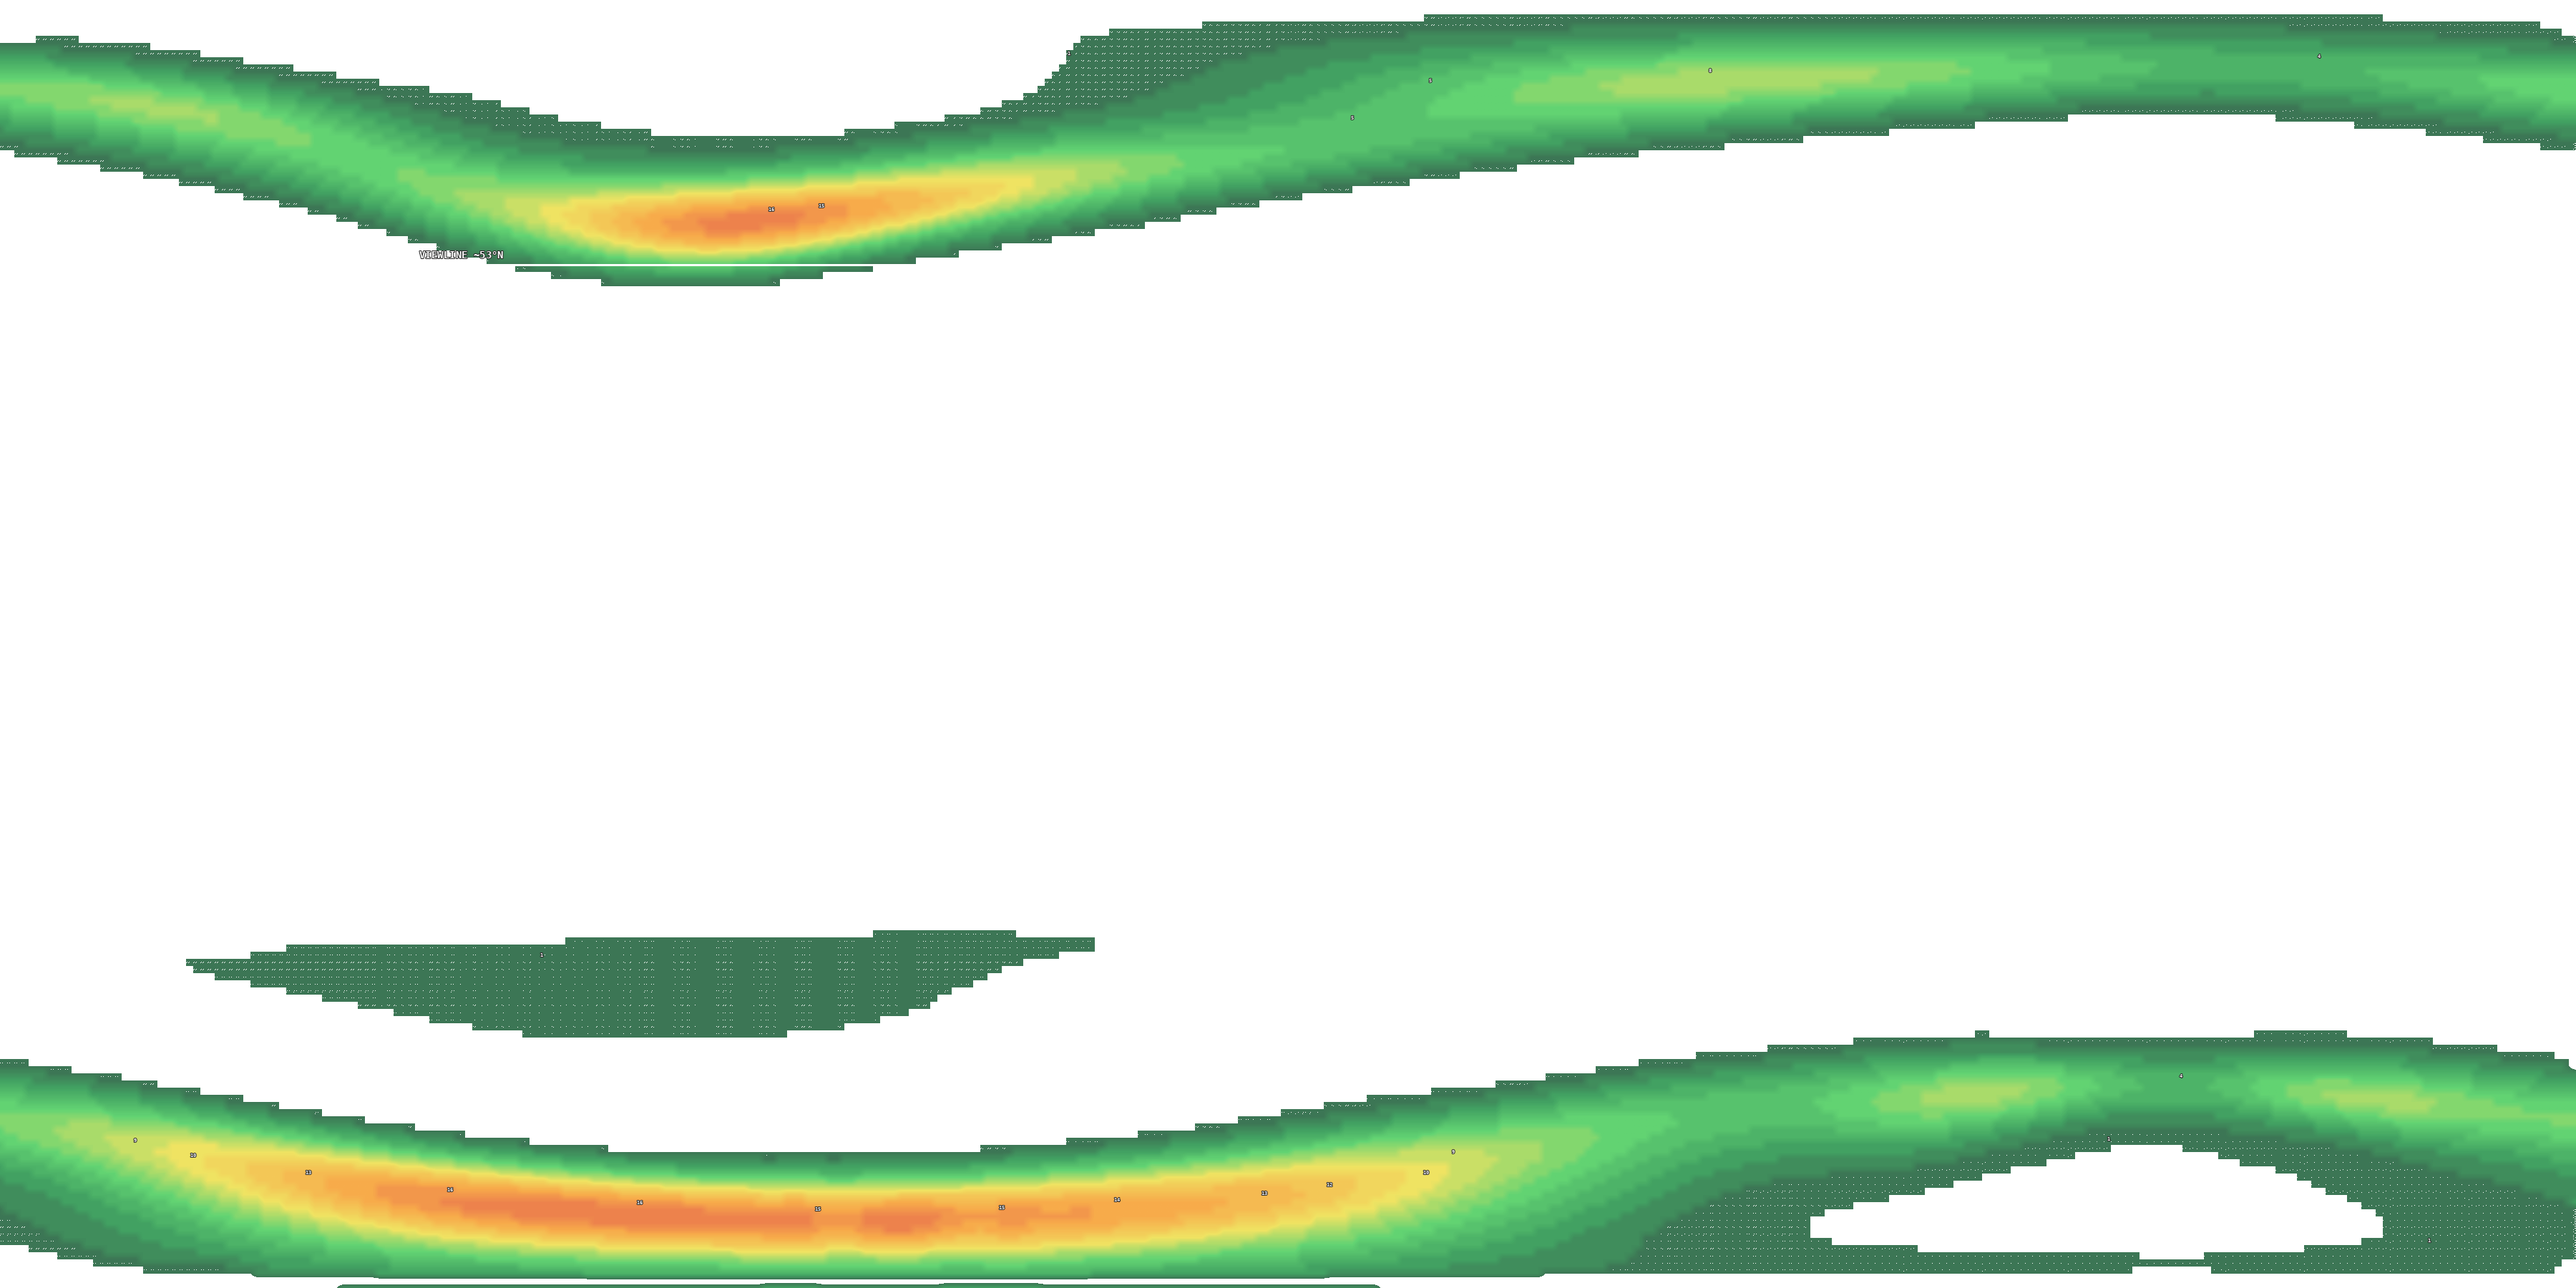
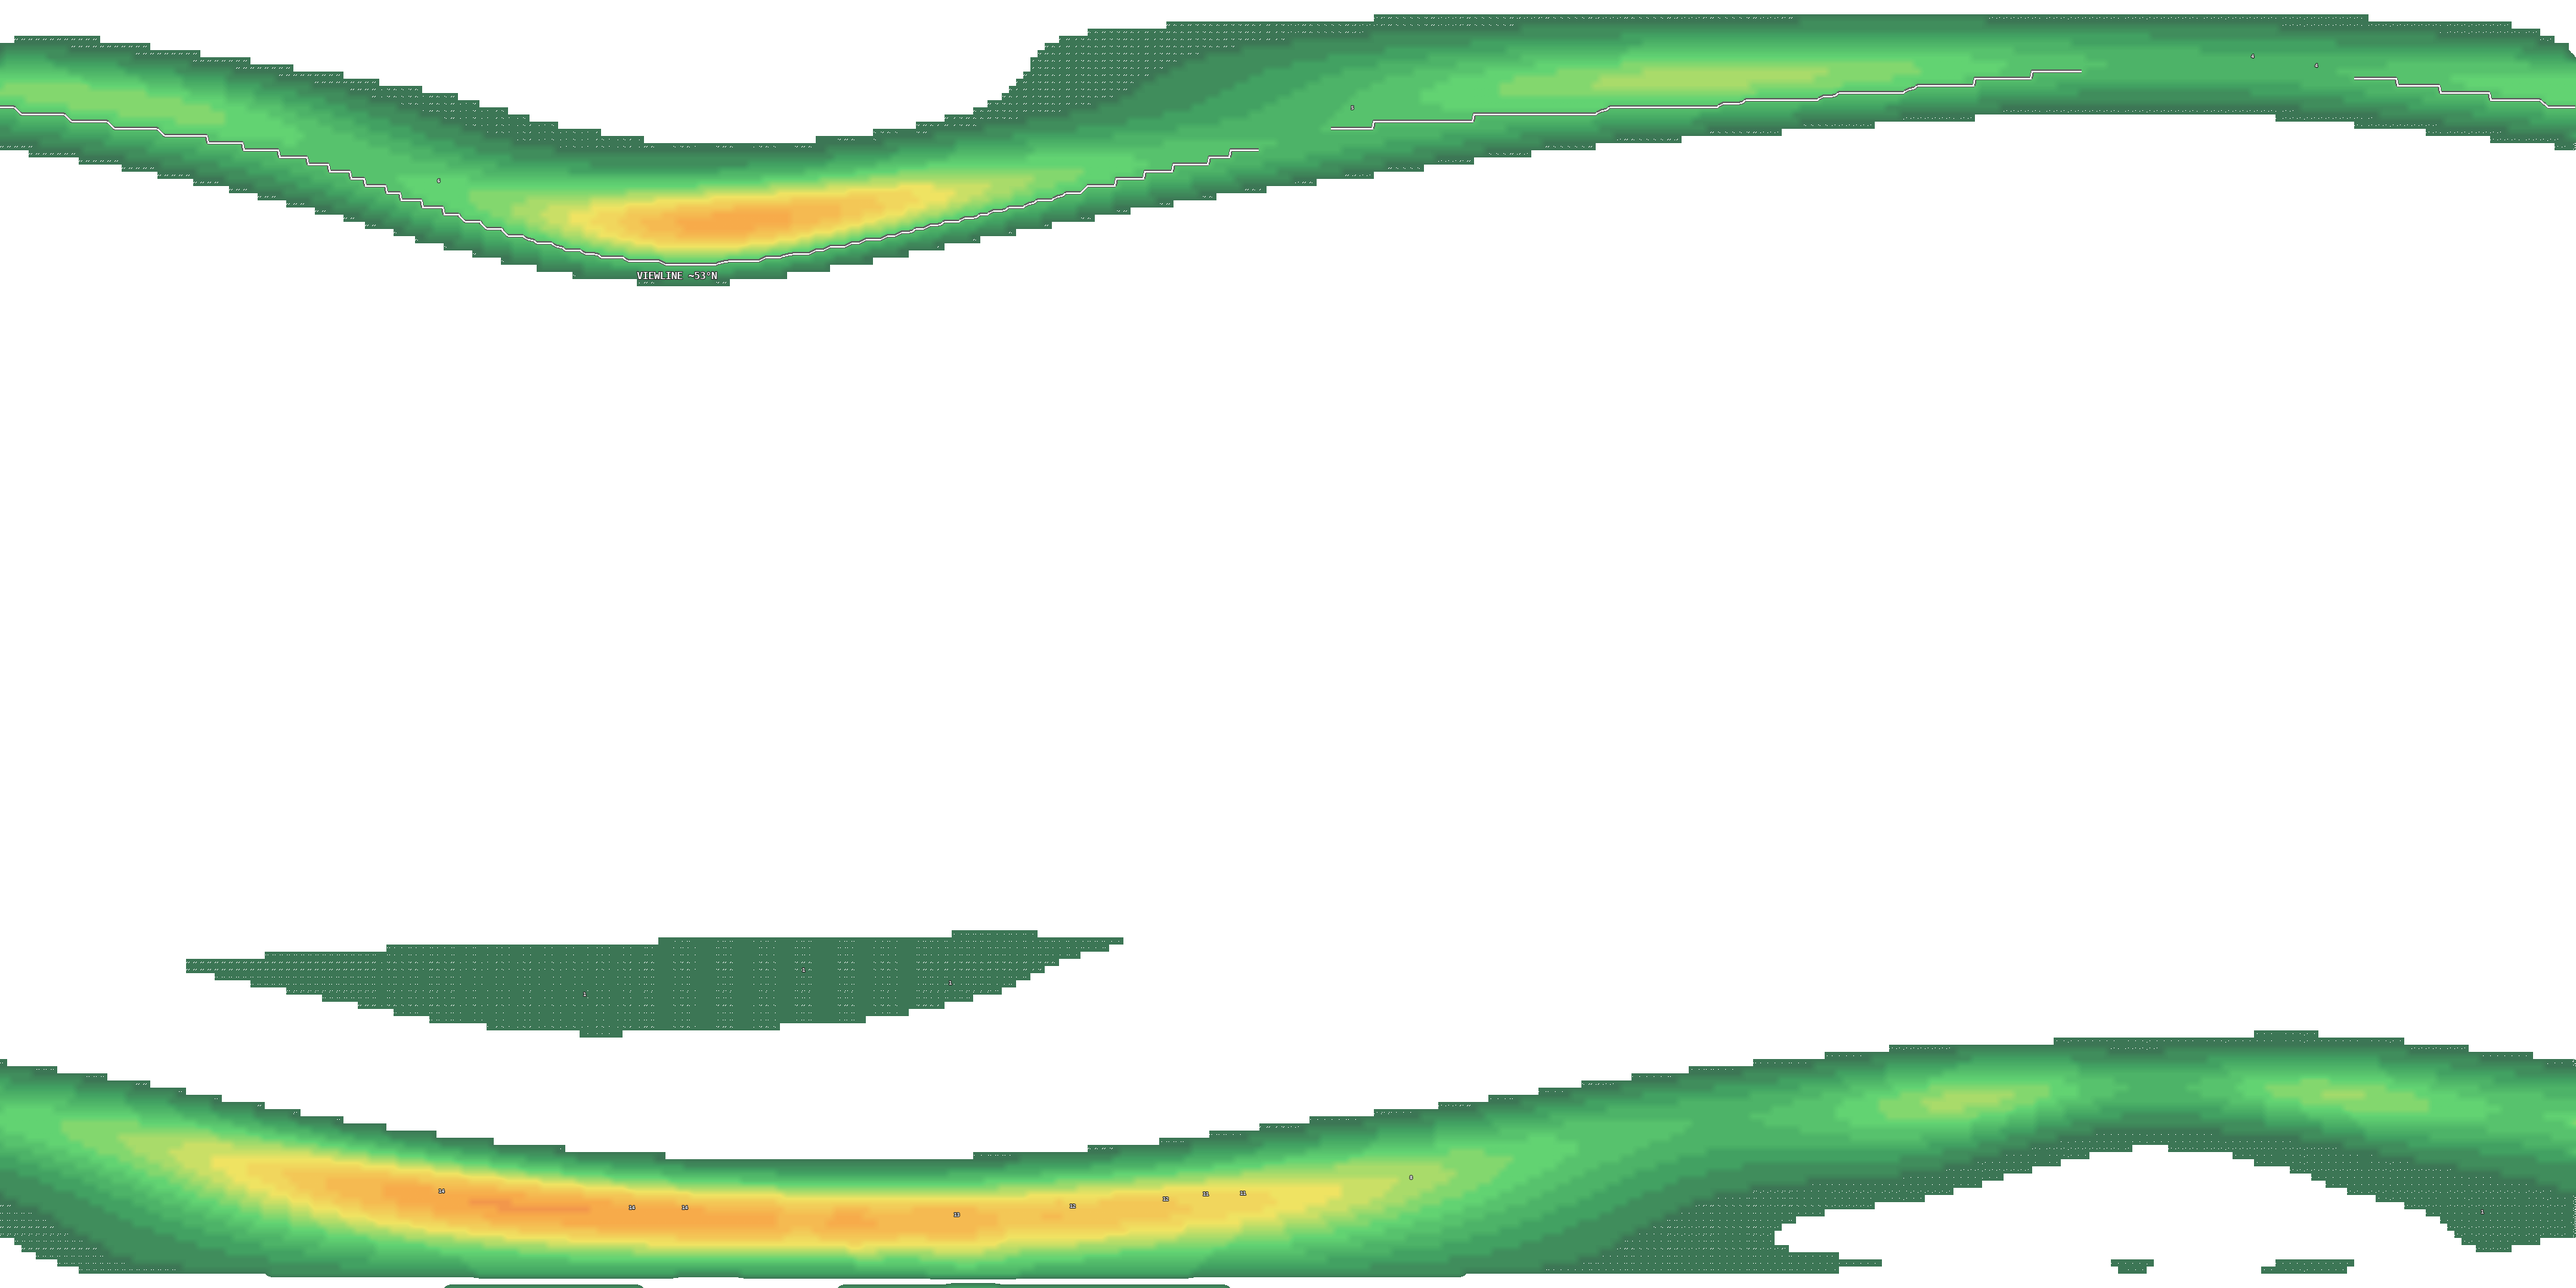
Aurora global: viewline traces raw painted threshold edge (NOAA-style, unsmoothed)

diff --git a/scripts/build_aurora_global.py b/scripts/build_aurora_global.py
@@ -82,88 +82,77 @@ def resample_global(lons, lats, vals):
                 + f01 * (1 - tx) * ty + f11 * tx * ty)
 
 
-def farthest_viewline_lat(lons, lats, vals, threshold, guard):
-    """Farthest equatorward reach of the NORTHERN oval: minimum latitude
-    with intensity >= threshold at/above the guard (documented guard
-    excludes near-equatorial grid artifacts, never real aurora)."""
-    m = (lats >= guard) & (vals >= threshold)
-    if not m.any():
-        return None
-    return float(lats[m].min())
+def oval_edge_columns(paint, threshold, bounds, step=2):
+    """Exact equatorward boundary of what is PAINTED, per canvas column.
 
-
-def viewline_spans(lons, lats, vals, threshold, guard, vl, margin_deg=8.0):
-    """Longitude ranges where the oval actually reaches near the viewline.
-
-    The farthest reach is one latitude, but the oval never dips there at
-    every longitude — drawing the line ocean-wide would imply visibility
-    where the oval stays far north. Returns [(lon0, lon1)] merged spans
-    (gaps <= 5 deg tolerated) where some cell within margin north of the
-    line reaches threshold.
+    No smoothing, no margins, no guards beyond the raster's own documented
+    rules: for each column, the southernmost pixel at/above threshold.
+    Columns without reach split the curve. The line IS the displayed data
+    edge — nothing interpretive.
+    Returns ([(x, y)] pixel points, southernmost_lat or None).
     """
-    spans = []
-    cur0 = cur1 = None
-    for lo in range(-180, 180, 2):
-        m = (lons >= lo) & (lons < lo + 2) & (lats >= guard) & (vals >= threshold)
-        if not m.any():
-            hit = False
-        else:
-            hit = float(lats[m].min()) <= vl + margin_deg
-        if hit:
-            if cur0 is None:
-                cur0 = cur1 = lo
-            elif lo - cur1 <= 5 + 2:
-                cur1 = lo
-            else:
-                spans.append((cur0, cur1 + 2))
-                cur0 = cur1 = lo
-        else:
-            if cur0 is not None:
-                spans.append((cur0, cur1 + 2))
-                cur0 = cur1 = None
-    if cur0 is not None:
-        spans.append((cur0, cur1 + 2))
-    return spans
+    H, W = paint.shape
+    # Northern oval only: rows at/above the equator (row of lat 0).
+    r_eq = int((bounds["lat_max"] - 0.0)
+               / (bounds["lat_max"] - bounds["lat_min"]) * H)
+    pts = []
+    for x in range(0, W, step):
+        col = paint[:r_eq, x]
+        hits = np.where(np.isfinite(col) & (col >= threshold))[0]
+        if hits.size:
+            pts.append((x, int(hits.max())))
+    southernmost = None
+    if pts:
+        rmax = max(r for _, r in pts)
+        southernmost = bounds["lat_max"] - (rmax + 0.5) / H \
+            * (bounds["lat_max"] - bounds["lat_min"])
+    return pts, southernmost
 
 
-def paint_viewline(rgba, lat, bounds, spans=None):
-    """Single straight raster latitude line + one mono tag (raster only).
+def paint_viewline(rgba, edge_pts, bounds, tag_lat):
+    """Raster viewline = the painted threshold edge itself (raster only).
 
-    Spans (optional [(lon0, lon1)]) clip the line to longitudes where the
-    oval actually reaches near it; None draws full-width (legacy).
+    Raw pixel points, unsmoothed; gaps in the data split the curve. One
+    mono tag at the southernmost dip. Cartographic linework only (dark
+    underlay + white core so it reads on any color) — every position is
+    a data pixel.
     """
     H, W = rgba.shape[:2]
-    row = int((bounds["lat_max"] - lat)
-              / (bounds["lat_max"] - bounds["lat_min"]) * H)
-    if not (4 <= row < H - 4):
-        return rgba, False
-    if spans:
-        segs = []
-        for lo0, lo1 in spans:
-            c0 = int((lo0 - bounds["lon_min"])
-                     / (bounds["lon_max"] - bounds["lon_min"]) * W)
-            c1 = int((lo1 - bounds["lon_min"])
-                     / (bounds["lon_max"] - bounds["lon_min"]) * W)
-            c0, c1 = max(4, c0), min(W - 4, c1)
-            if c1 - c0 >= 20:
-                segs.append((c0, c1))
-        if not segs:
-            return rgba, False
-    else:
-        segs = [(4, W - 4)]
     img = Image.fromarray(rgba, mode="RGBA")
     d = ImageDraw.Draw(img)
-    for c0, c1 in segs:
-        for dy in (-1, 0, 1):
-            d.line([(c0, row + dy), (c1, row + dy)],
-                   fill=(255, 255, 255, 220))
-    font = _label_font_big(14)
-    tag = f"VIEWLINE ~{lat:.0f}\u00b0N"
-    tx = segs[0][0] + 6
-    d.text((tx, row - 22), tag, font=font, fill=(255, 255, 255, 255),
-           stroke_width=1, stroke_fill=(20, 20, 20, 235))
+    # split on pixel gaps (missing columns break the run)
+    runs, cur = [], []
+    for x, r in sorted(edge_pts):
+        if not (4 <= r < H - 4):
+            continue
+        if cur and x - cur[-1][0] > 3 * 2:
+            runs.append(cur)
+            cur = []
+        cur.append((x, r))
+    if cur:
+        runs.append(cur)
+    drew = False
+    dip = None
+    for run in runs:
+        if len(run) < 3:
+            continue
+        flat = [(x, y) for x, y in run]
+        d.line(flat, fill=(20, 20, 20, 170), width=5, joint="curve")
+        d.line(flat, fill=(255, 255, 255, 235), width=2, joint="curve")
+        drew = True
+        cand = max(run, key=lambda t: t[1])
+        if dip is None or cand[1] > dip[1]:
+            dip = cand
+    if drew and dip is not None:
+        font = _label_font_big(14)
+        lat = bounds["lat_max"] - (dip[1] + 0.5) / H \
+            * (bounds["lat_max"] - bounds["lat_min"])
+        d.text((min(max(dip[0] - 40, 6), W - 170), dip[1] + 8),
+               f"VIEWLINE ~{lat:.0f}\u00b0N", font=font,
+               fill=(255, 255, 255, 255),
+               stroke_width=1, stroke_fill=(20, 20, 20, 235))
     del d
-    return np.array(img), True
+    return np.array(img), drew
 
 
 def main():
@@ -221,24 +210,20 @@ def _build(obs, fcst, lons, lats, vals, hemi, kpf, kp_now, source_id,
     # signal): OVATION is a high-latitude precipitation model; the faint
     # 1-4 equatorial/Americas-sector drizzle is background noise, so cells
     # below |40° paint only at/above the viewline threshold (storm signal
-    # always survives; the viewline itself is computed on raw source).
+    # always survives; the viewline is read off the painted edge itself).
     ys = 90.0 - (np.arange(GH) + 0.5) / GH * 180.0
     trop = (np.abs(ys) < 40.0)[:, None] & (field < 5.0)
     paint = np.where((field >= 1.0) & ~trop, field, np.nan)
     rgba = render_rgba(paint, AURORA_STOPS, 205)
     rgba, n_labels = paint_aurora_labels(rgba, paint, font_size=font_size)
-    vl = farthest_viewline_lat(lons[ok], lats[ok], vals[ok],
-                               CONFIG["viewline_threshold"],
-                               CONFIG["viewline_guard_lat"])
+    # Viewline = the painted threshold edge itself (no smoothing, margins,
+    # or separate guards: every line pixel is a displayed data pixel).
+    edge_pts, vl = oval_edge_columns(paint, CONFIG["viewline_threshold"],
+                                     GBOUNDS)
     vl_ok = False
-    vl_spans = []
     if vl is not None:
-        vl_spans = viewline_spans(lons[ok], lats[ok], vals[ok],
-                                  CONFIG["viewline_threshold"],
-                                  CONFIG["viewline_guard_lat"], vl)
-        rgba, vl_ok = paint_viewline(rgba, vl, GBOUNDS, spans=vl_spans)
-    print(f"[{PRODUCT}] labels={n_labels} viewline={vl} drawn={vl_ok} "
-          f"spans={vl_spans}")
+        rgba, vl_ok = paint_viewline(rgba, edge_pts, GBOUNDS, vl)
+    print(f"[{PRODUCT}] labels={n_labels} viewline={vl} drawn={vl_ok}")
     if preview_dir is not None:
         os.makedirs(preview_dir, exist_ok=True)
         save_png(rgba, os.path.join(preview_dir, "current.png"))
@@ -266,9 +251,10 @@ def _build(obs, fcst, lons, lats, vals, hemi, kpf, kp_now, source_id,
         f"(oval overhead) &rarr; <b>14 orange</b> &rarr; <b>23 magenta</b> "
         f"(severe) &rarr; <b>HIGHEST+ 30+</b> (violet extreme). Same "
         f"intensity always shows the same color. White halo numbers are "
-        f"actual intensity at that spot. Single white viewline: the "
-        f"northern oval's farthest equatorward reach now "
-        f"(<b>{vl_txt}</b>) — aurora may be visible low on the northern "
+         f"actual intensity at that spot. White viewline hugs the oval's "
+         f"farthest equatorward edge (dipping where coverage dips, like "
+         f"NOAA's own view line) "
+         f"(<b>{vl_txt}</b>) — aurora may be visible low on the northern "
          f"horizon from there under dark, clear skies. The line spans "
          f"only longitudes where the oval actually reaches near it. Faint "
          f"equatorial speckles are a known OVATION grid artifact, not "
@@ -298,7 +284,7 @@ def _build(obs, fcst, lons, lats, vals, hemi, kpf, kp_now, source_id,
     meta["legend_scale_html"] = scale_html
     meta["source_id"] = source_id
     meta["source_version"] = source_token(
-        f"{source_id}-r{RENDER_VERSION}-aurglobal-tx2")
+        f"{source_id}-r{RENDER_VERSION}-aurglobal-tx4")
     meta["viewline_threshold"] = CONFIG["viewline_threshold"]
     meta["viewline_farthest_lat"] = vl
     meta["stats"] = {"valid_cells": int(np.isfinite(paint).sum()),
